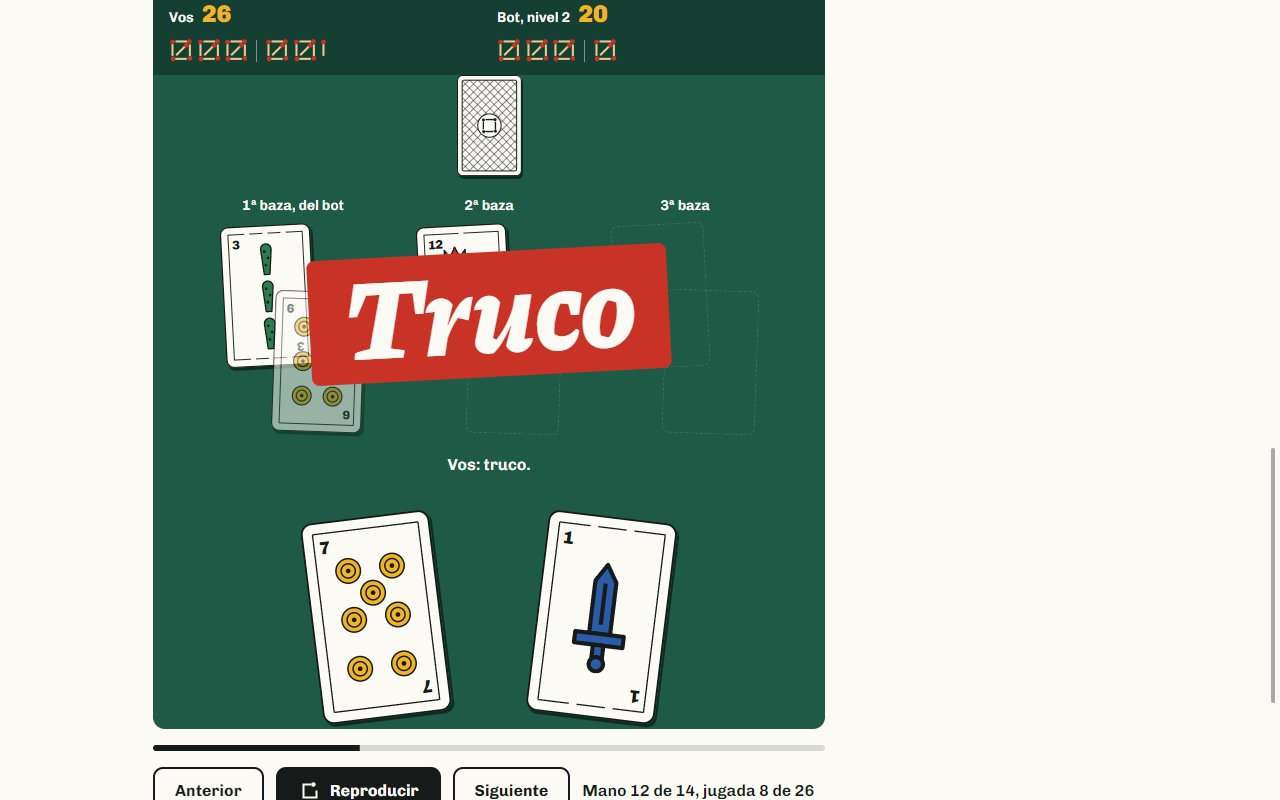
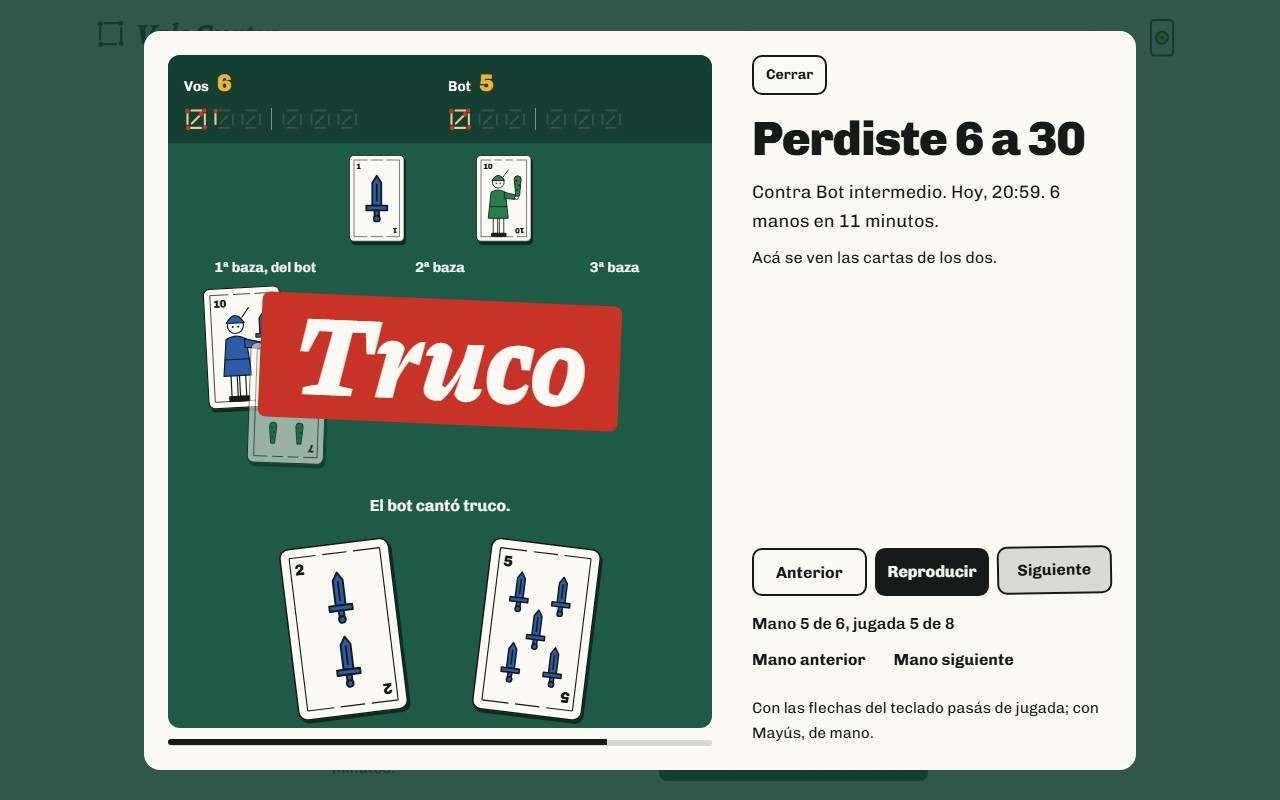
M7: decisiones del módulo y capturas del historial y la repetición

diff --git a/docs/decisiones.md b/docs/decisiones.md
@@ -670,3 +670,49 @@ Nueve observaciones, ninguna rompía el juego. Se corrigió esto:
 - **El final tapaba la mesa pero no la apagaba:** con el teclado, el foco podía irse a "Salir", que quedaba detrás. Lo de atrás queda inerte mientras el final está a la vista, y el tanteo se anuncia junto con el título.
 - **El reparto de la sala de espera** seguía dándole la primera carta a quien abrió la sala. La consulta de la sala dice ahora quién es mano, y el reparto empieza por ahí, igual que en la mesa.
 - **Queda para M7:** la repetición del historial tiene su propia cuenta para el tamaño de los cantos y todavía los muestra en un renglón. Cuando esa pantalla se conecte a las partidas reales, tiene que usar la misma función que la mesa.
+
+## M7. Historial y repetición
+
+El historial dejó de ser una maqueta: la lista y la repetición salen de las partidas que se jugaron. Los datos de ejemplo se borraron.
+
+### La repetición no guarda nada: se arma con los eventos
+
+- **Problema:** volver a ver una partida jugada por jugada sin guardar una segunda copia de lo que pasó.
+- **Elegido:** `App\Juego\Repeticion` vuelve a aplicarle los eventos de la partida al motor, uno por uno (`Mesa::pasoAPaso()`), y de cada cosa que el motor cuenta (una carta, un canto, una respuesta, los tantos, un punto, el cierre de la mano) saca un "cuadro": cómo se ve la mesa en ese momento y una frase que lo dice. La pantalla solo muestra el cuadro que toca; no tiene reglas.
+- **Por qué en el servidor:** el navegador recibe cuadros ya filtrados por asiento. Si recibiera los eventos crudos, recibiría las cartas que el rival nunca mostró.
+- **Ir a una mano** es ir al cuadro donde se reparte: ahí el tanteo es el que tuvo la partida al empezar esa mano. Hay un test que juega una partida entera, anota el tanteo de cada reparto mientras se juega y lo compara con el de la repetición. Otro comprueba que armarla no escribe nada en la base y que da siempre lo mismo.
+- **El final:** el motor avisa que la partida terminó apenas se anota el punto que la cierra, antes de cerrar la mano. Al contarla, eso va último: la repetición termina diciendo quién ganó la partida.
+- **Se descartó** guardar los cuadros (sería una segunda verdad que puede desacomodarse) y mandar los eventos al navegador para que los interprete (habría que repetir el reglamento en JavaScript y filtrar cartas del lado equivocado).
+
+### Qué cartas se ven en una repetición
+
+- **Problema:** el criterio del módulo dice que en la repetición "se ven las cartas de los dos". Pero entre dos personas, las cartas que alguien no jugó ni mostró no las vio nadie, y el reglamento dice que vuelven al mazo boca abajo.
+- **Elegido por Román:** contra el bot se ven todas, desde el reparto. Entre personas se ven las propias y, del rival, solo lo que se vio en la mesa: lo que jugó y lo que mostró al cerrar la mano por el envido o la flor. La pantalla lo dice en una frase.
+- **Test:** recorre todos los cuadros de partidas enteras entre personas, desde los dos asientos, y comprueba que del rival no aparece ninguna carta que no haya jugado o mostrado. Otro lo comprueba sobre lo que de verdad recibe el navegador, por las dos puertas (la página y los datos del cartel).
+
+### El historial de quien juega sin cuenta dura lo que dura la sesión
+
+- **Pedido por Román:** un invitado ve las partidas de esa sesión; quien tiene cuenta las tiene todas; y al crear la cuenta se recuperan también las que jugó como invitado.
+- **Cómo:** un middleware (`SesionDeInvitado`) anota en la sesión cuándo empezó. A un invitado se le muestran las partidas terminadas desde ese momento. Las anteriores no se borran: se dejan de mostrar, y tampoco se abren escribiendo la dirección a mano.
+- **Recuperar todo al registrarse no necesitó código:** un invitado es una fila de `jugadores` sin correo, y crear la cuenta le completa los datos a esa misma fila. Las partidas ya eran suyas. Hay un test.
+- **La lista muestra solo partidas cerradas.** Una sin terminar se avisa aparte, con el link a la mesa, y no tiene repetición: pedirla manda a la mesa a quien la está jugando y a cualquier otro le responde que no existe.
+- **Sin partidas no se inventa nada:** un aviso corto, el tanteador en cero y el botón para jugar.
+- **Para los módulos que vienen:** cada renglón dice de qué juego fue ("Mano a mano"). El torneo, los desafíos, la escalera y el de a cuatro tienen que guardar sus partidas como eventos, igual que estas, y decir ahí de qué juego son.
+
+### La repetición se abre en un cartel que tiene dirección propia
+
+- **Problema:** Román pidió que la repetición se abra en un cartel sobre la lista, como el de "Salir" en la mesa, en vez de cambiar de página. Un cartel común tiene costos: no se puede compartir ni guardar el link, "atrás" se va del historial en vez de cerrarlo y al recargar se pierde.
+- **Elegido por Román entre tres opciones:** el cartel con dirección propia. "Ver de nuevo" es un link de verdad a `/historial/{partida}`. Con JavaScript, el clic abre el cartel y cambia la dirección del navegador a la de esa partida (History API). "Atrás" lo cierra, "adelante" lo vuelve a abrir, y recargar o entrar directo muestra la misma repetición como página.
+- **Una sola pieza para los dos lugares:** `<x-repeticion>` se usa en el cartel y en la página. El cartel pide los datos a `/historial/{partida}/cuadros`; la página los trae escritos. Un test comprueba que las dos puertas entregan lo mismo y que las dos están cerradas para quien no jugó esa partida.
+- **El cartel es el `<dialog>` del navegador:** se ocupa del foco, de la tecla Esc y de que la lista de atrás no se pueda tocar. Cerrar (el botón, Esc o un clic en el fondo) es volver atrás en el navegador, así el botón y la flecha hacen lo mismo.
+- **Una trampa que apareció probando:** si se recarga con el cartel abierto, para el navegador esa página y la lista siguen siendo "la misma": con "atrás" cambia la dirección y no carga nada. La página de la repetición escucha ese aviso y pide la carga.
+- **Si algo falla** (sin conexión, o el servidor no contesta), el link hace lo de siempre y abre la página.
+- **Medidas:** en escritorio el cartel entra entero, sin deslizar (probado en 1355 x 638, 1024 x 768 y 1920 x 1080). En el celular ocupa la pantalla, y el resultado, la mesa y los controles entran juntos a 360 x 740; el detalle queda debajo. La mesa de la repetición sale de la misma medida que la de juego, `--b`, con su propia cuenta.
+- **Movimiento:** el cartel entra apenas más chico y con un fundido, 220 ms. Lo que se abre con "adelante" o se cierra con el teclado no se anima. Avanzar de a una jugada mueve las cartas como en la mesa; saltar de mano o retroceder las pone en su lugar sin moverlas. Las flechas del teclado pasan de jugada y, con Mayús, de mano.
+- **Se descartó** el cartel sin dirección (los costos de arriba) y dejar solo la página (era lo que había, y a Román le resultó un salto innecesario).
+
+### Qué no se hizo
+
+- **No pasó por la revisión de código antes de subir:** Román pidió subirlo directo.
+- **No hay tests de navegador automáticos** del cartel ni de la repetición: se probaron a mano con un navegador real (abrir, cerrar por las cuatro puertas, atrás y adelante, recargar, teclado) y quedan para M11.
+- **Capturas** en `docs/capturas/`: `historial.png`, `historial-celular.png`, `repeticion.jpeg` y `repeticion-celular.png`.
